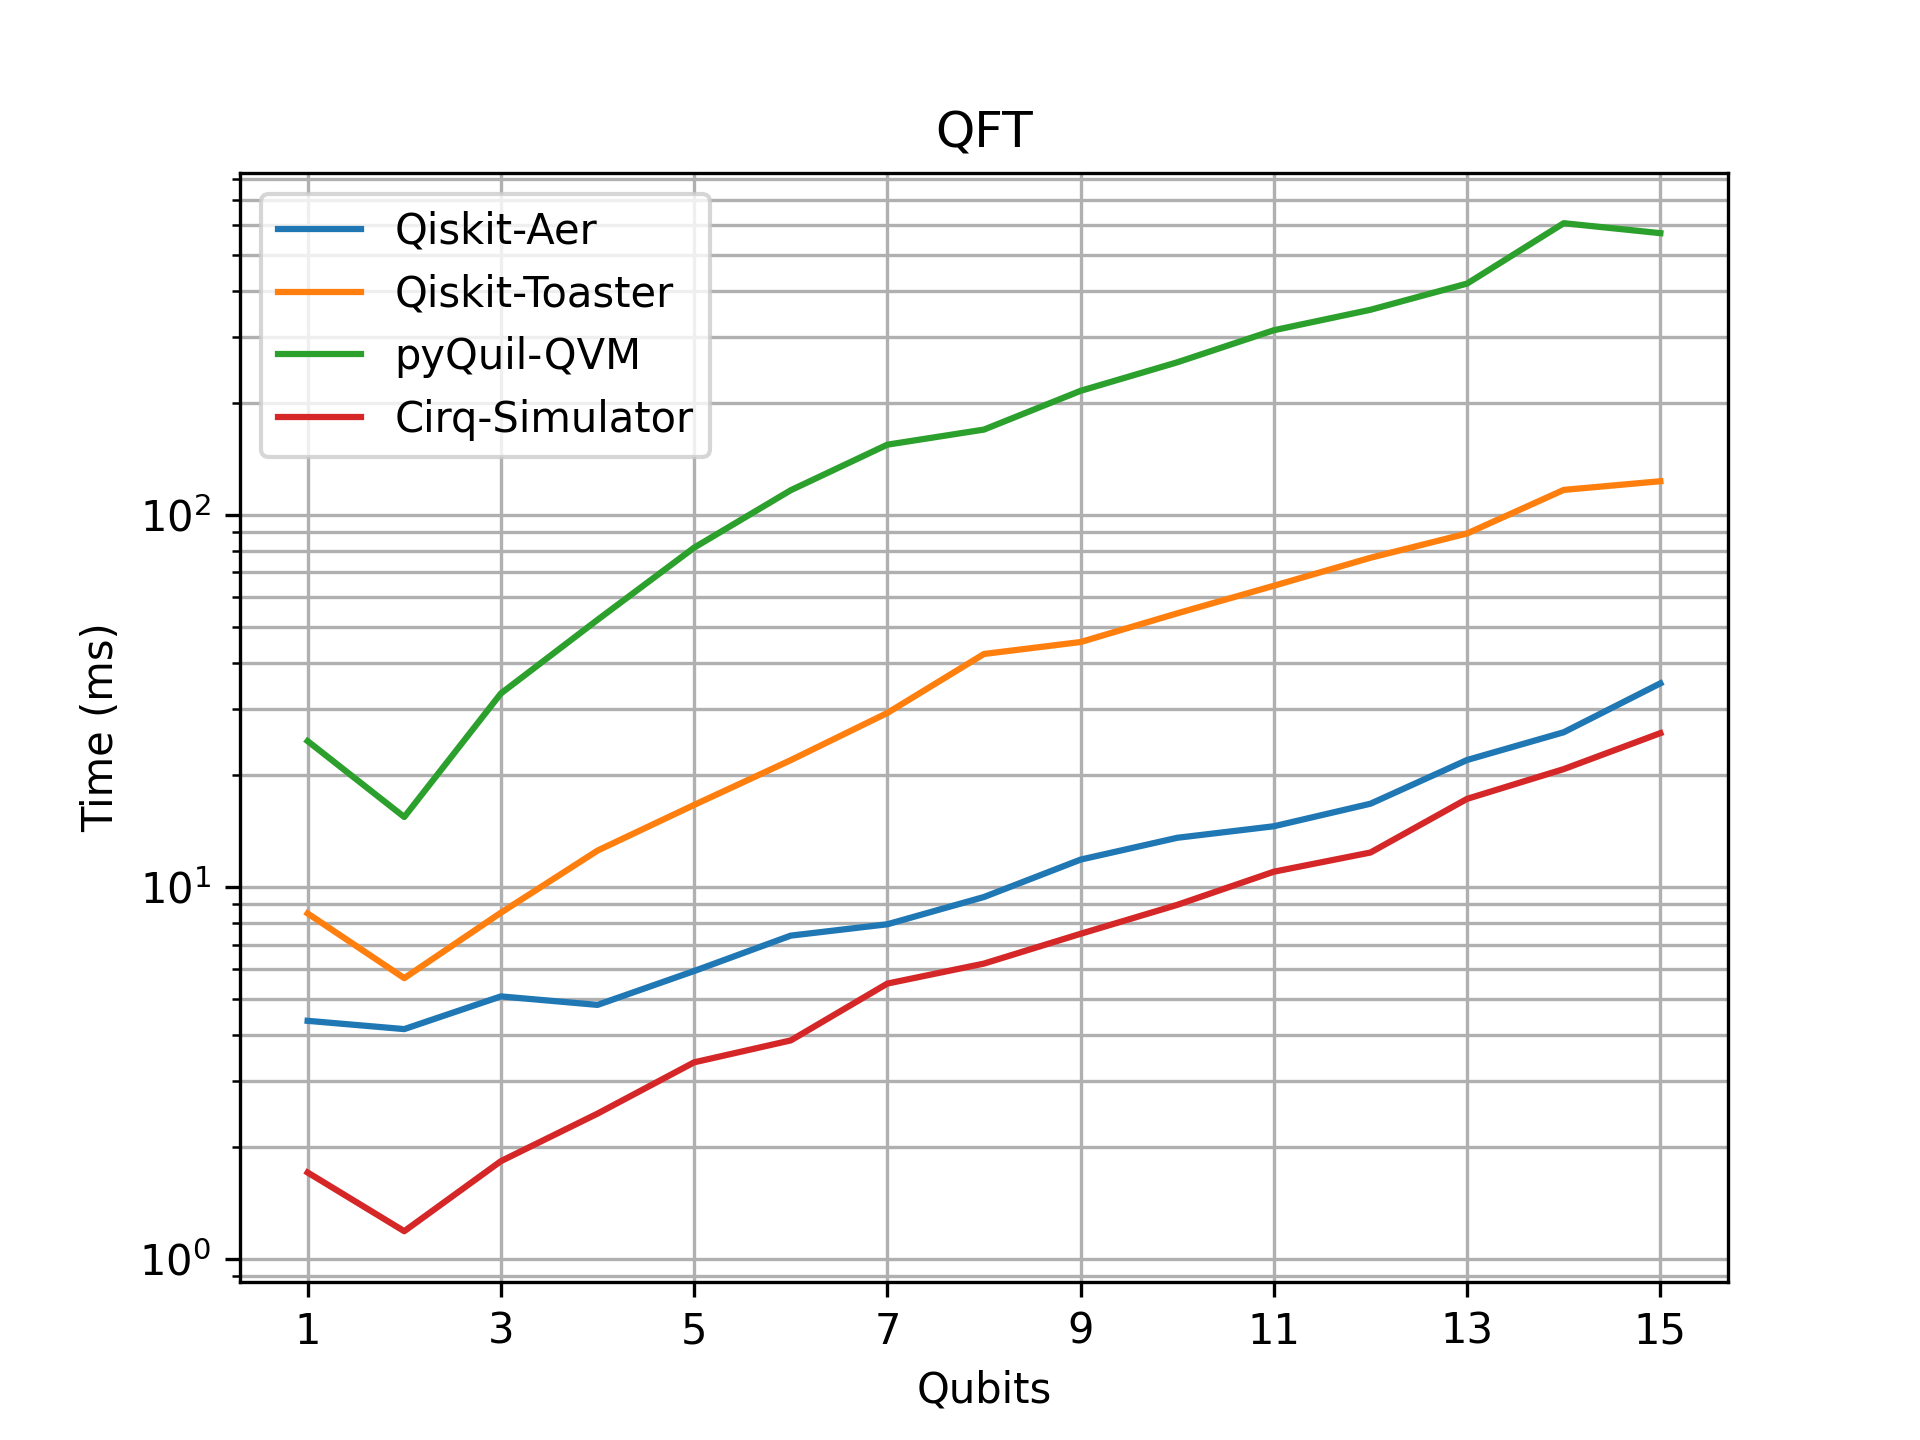
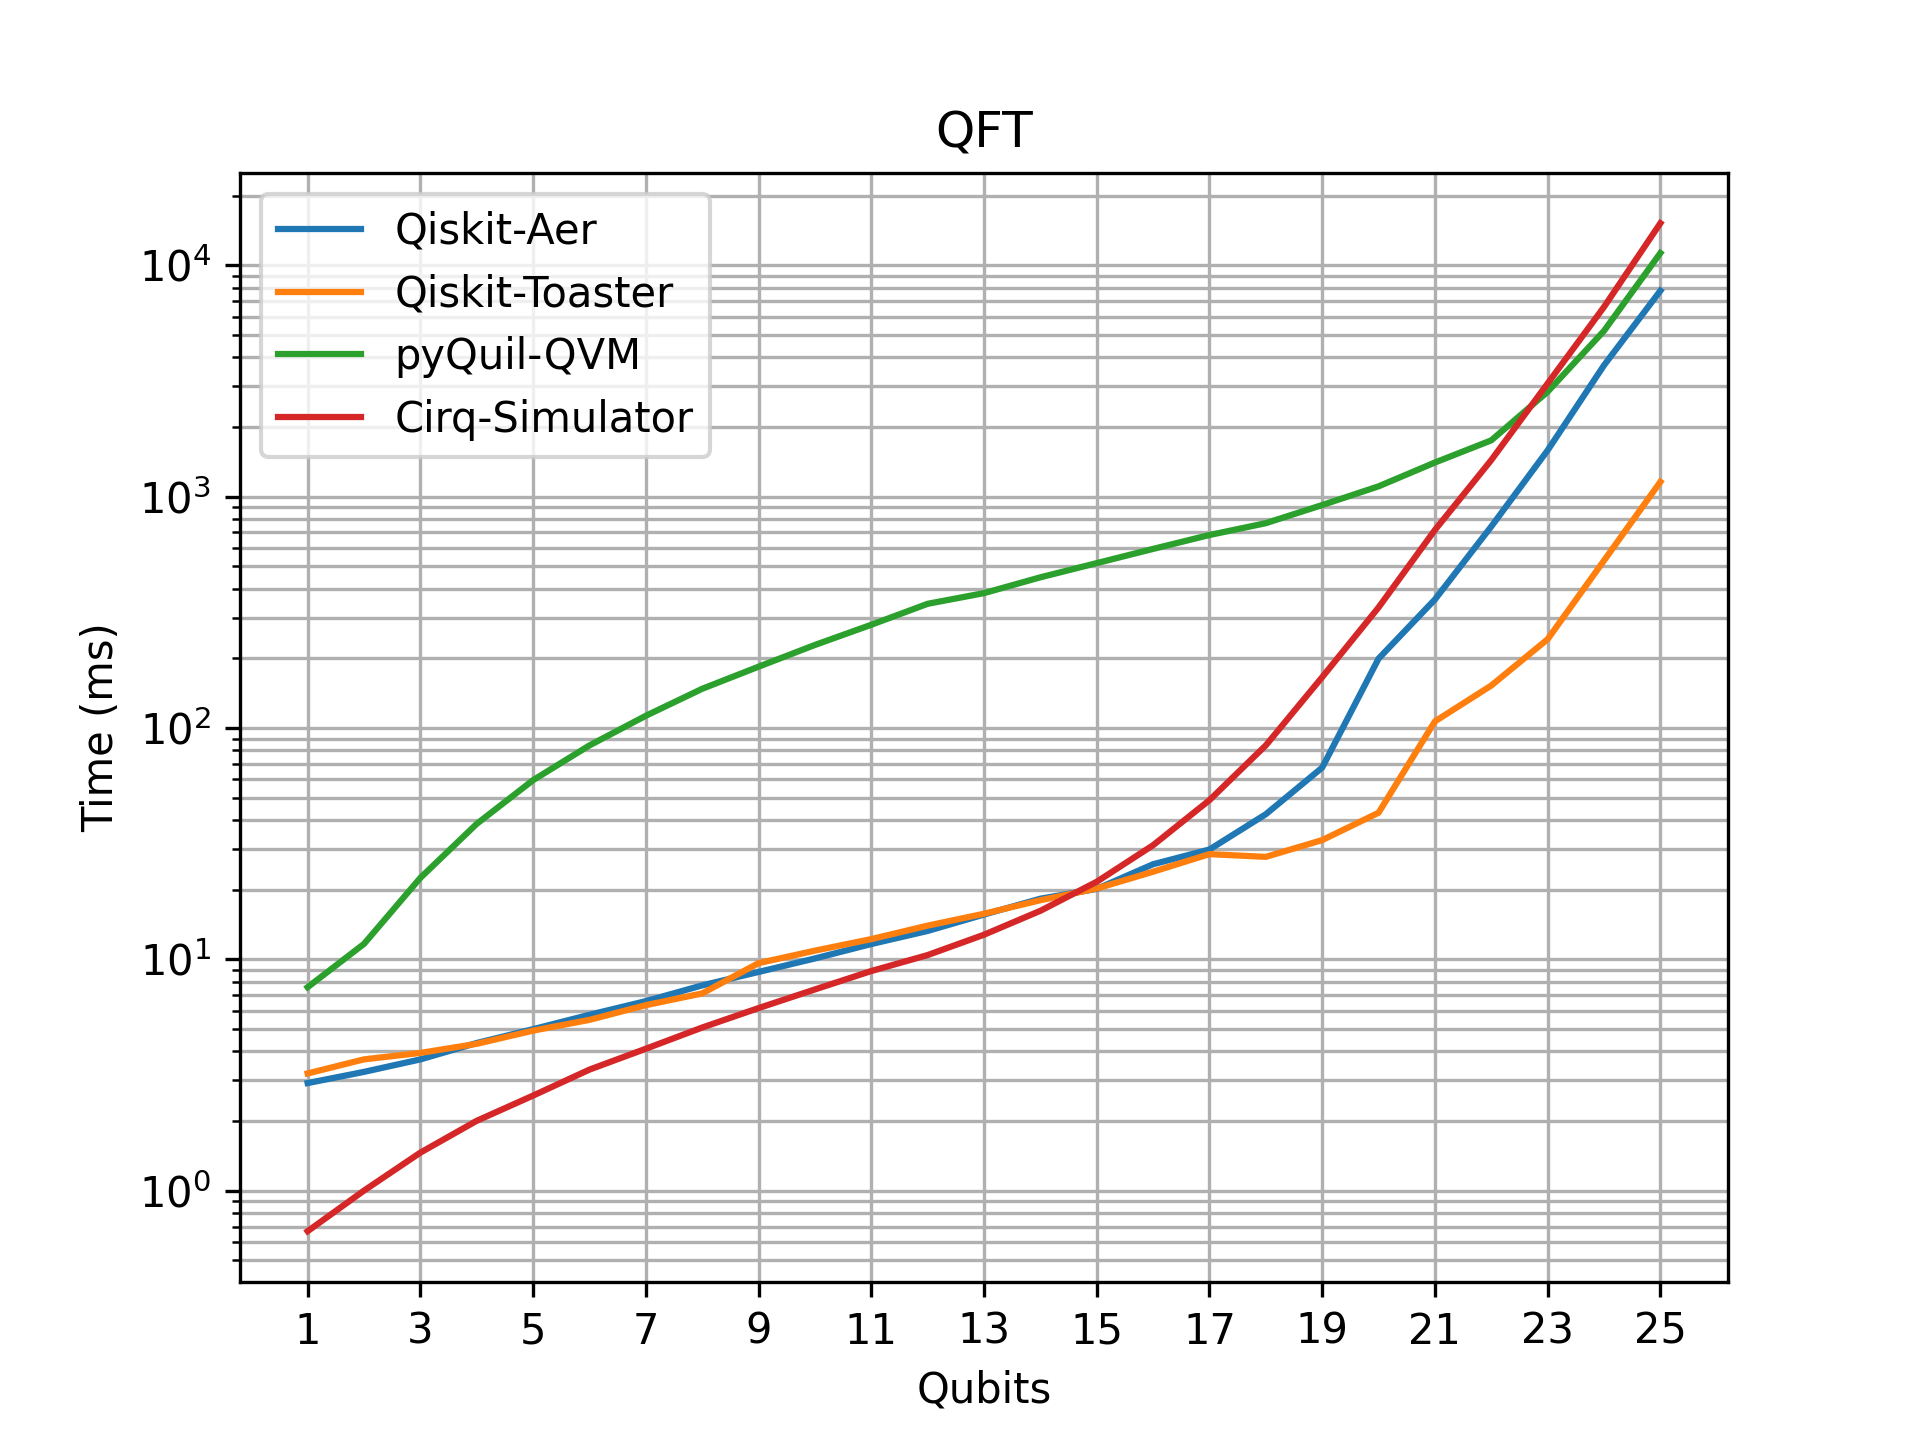
Min time instead Avg

Changed region(s): [[0.0625, 0.125, 0.9062, 0.9375], [0.8438, 0.9062, 0.875, 0.9375], [0.0938, 0.1562, 0.125, 0.1875]]

diff --git a/benchmark_qft.py b/benchmark_qft.py
@@ -96,7 +96,7 @@ def benchmark_qft_qiskit(from_qubits, to_qubits, results):
             job = execute(circ, backend=toaster_backend, shots=1)
             result = job.result()
             elapsed_time = (time.time() - start_time) * 1000
-            toaster_time = elapsed_time if np.isnan(toaster_time) else ((toaster_time + elapsed_time) / 2)
+            toaster_time = elapsed_time if np.isnan(toaster_time) else min(toaster_time, elapsed_time)
         results["Qiskit-Toaster"][i] = toaster_time
 
         # Qiskit with Aer backend
@@ -107,7 +107,7 @@ def benchmark_qft_qiskit(from_qubits, to_qubits, results):
             job = execute(circ, backend=aer_backend, shots=1)
             result = job.result()
             elapsed_time = (time.time() - start_time) * 1000
-            aer_time = elapsed_time if np.isnan(aer_time) else ((aer_time + elapsed_time) / 2)
+            aer_time = elapsed_time if np.isnan(aer_time) else min(aer_time, elapsed_time)
         results["Qiskit-Aer"][i] = aer_time
 
     gc.enable()
@@ -135,7 +135,7 @@ def benchmark_qft_pyquil(from_qubits, to_qubits, results):
             start_time = time.time()
             result = qc.run(circ)        
             elapsed_time = (time.time() - start_time) * 1000
-            qvm_time = elapsed_time if np.isnan(qvm_time) else ((qvm_time + elapsed_time) / 2)
+            qvm_time = elapsed_time if np.isnan(qvm_time) else min(qvm_time, elapsed_time)
         results["pyQuil-QVM"][i] = qvm_time
 
     gc.enable()
@@ -162,7 +162,7 @@ def benchmark_qft_cirq(from_qubits, to_qubits, results):
             start_time = time.time()
             result = simulator.run(circ, repetitions=1)
             elapsed_time = (time.time() - start_time) * 1000
-            cirq_time = elapsed_time if np.isnan(cirq_time) else ((cirq_time + elapsed_time) / 2)
+            cirq_time = elapsed_time if np.isnan(cirq_time) else min(cirq_time, elapsed_time)
         results["Cirq-Simulator"][i] = cirq_time
 
         """
